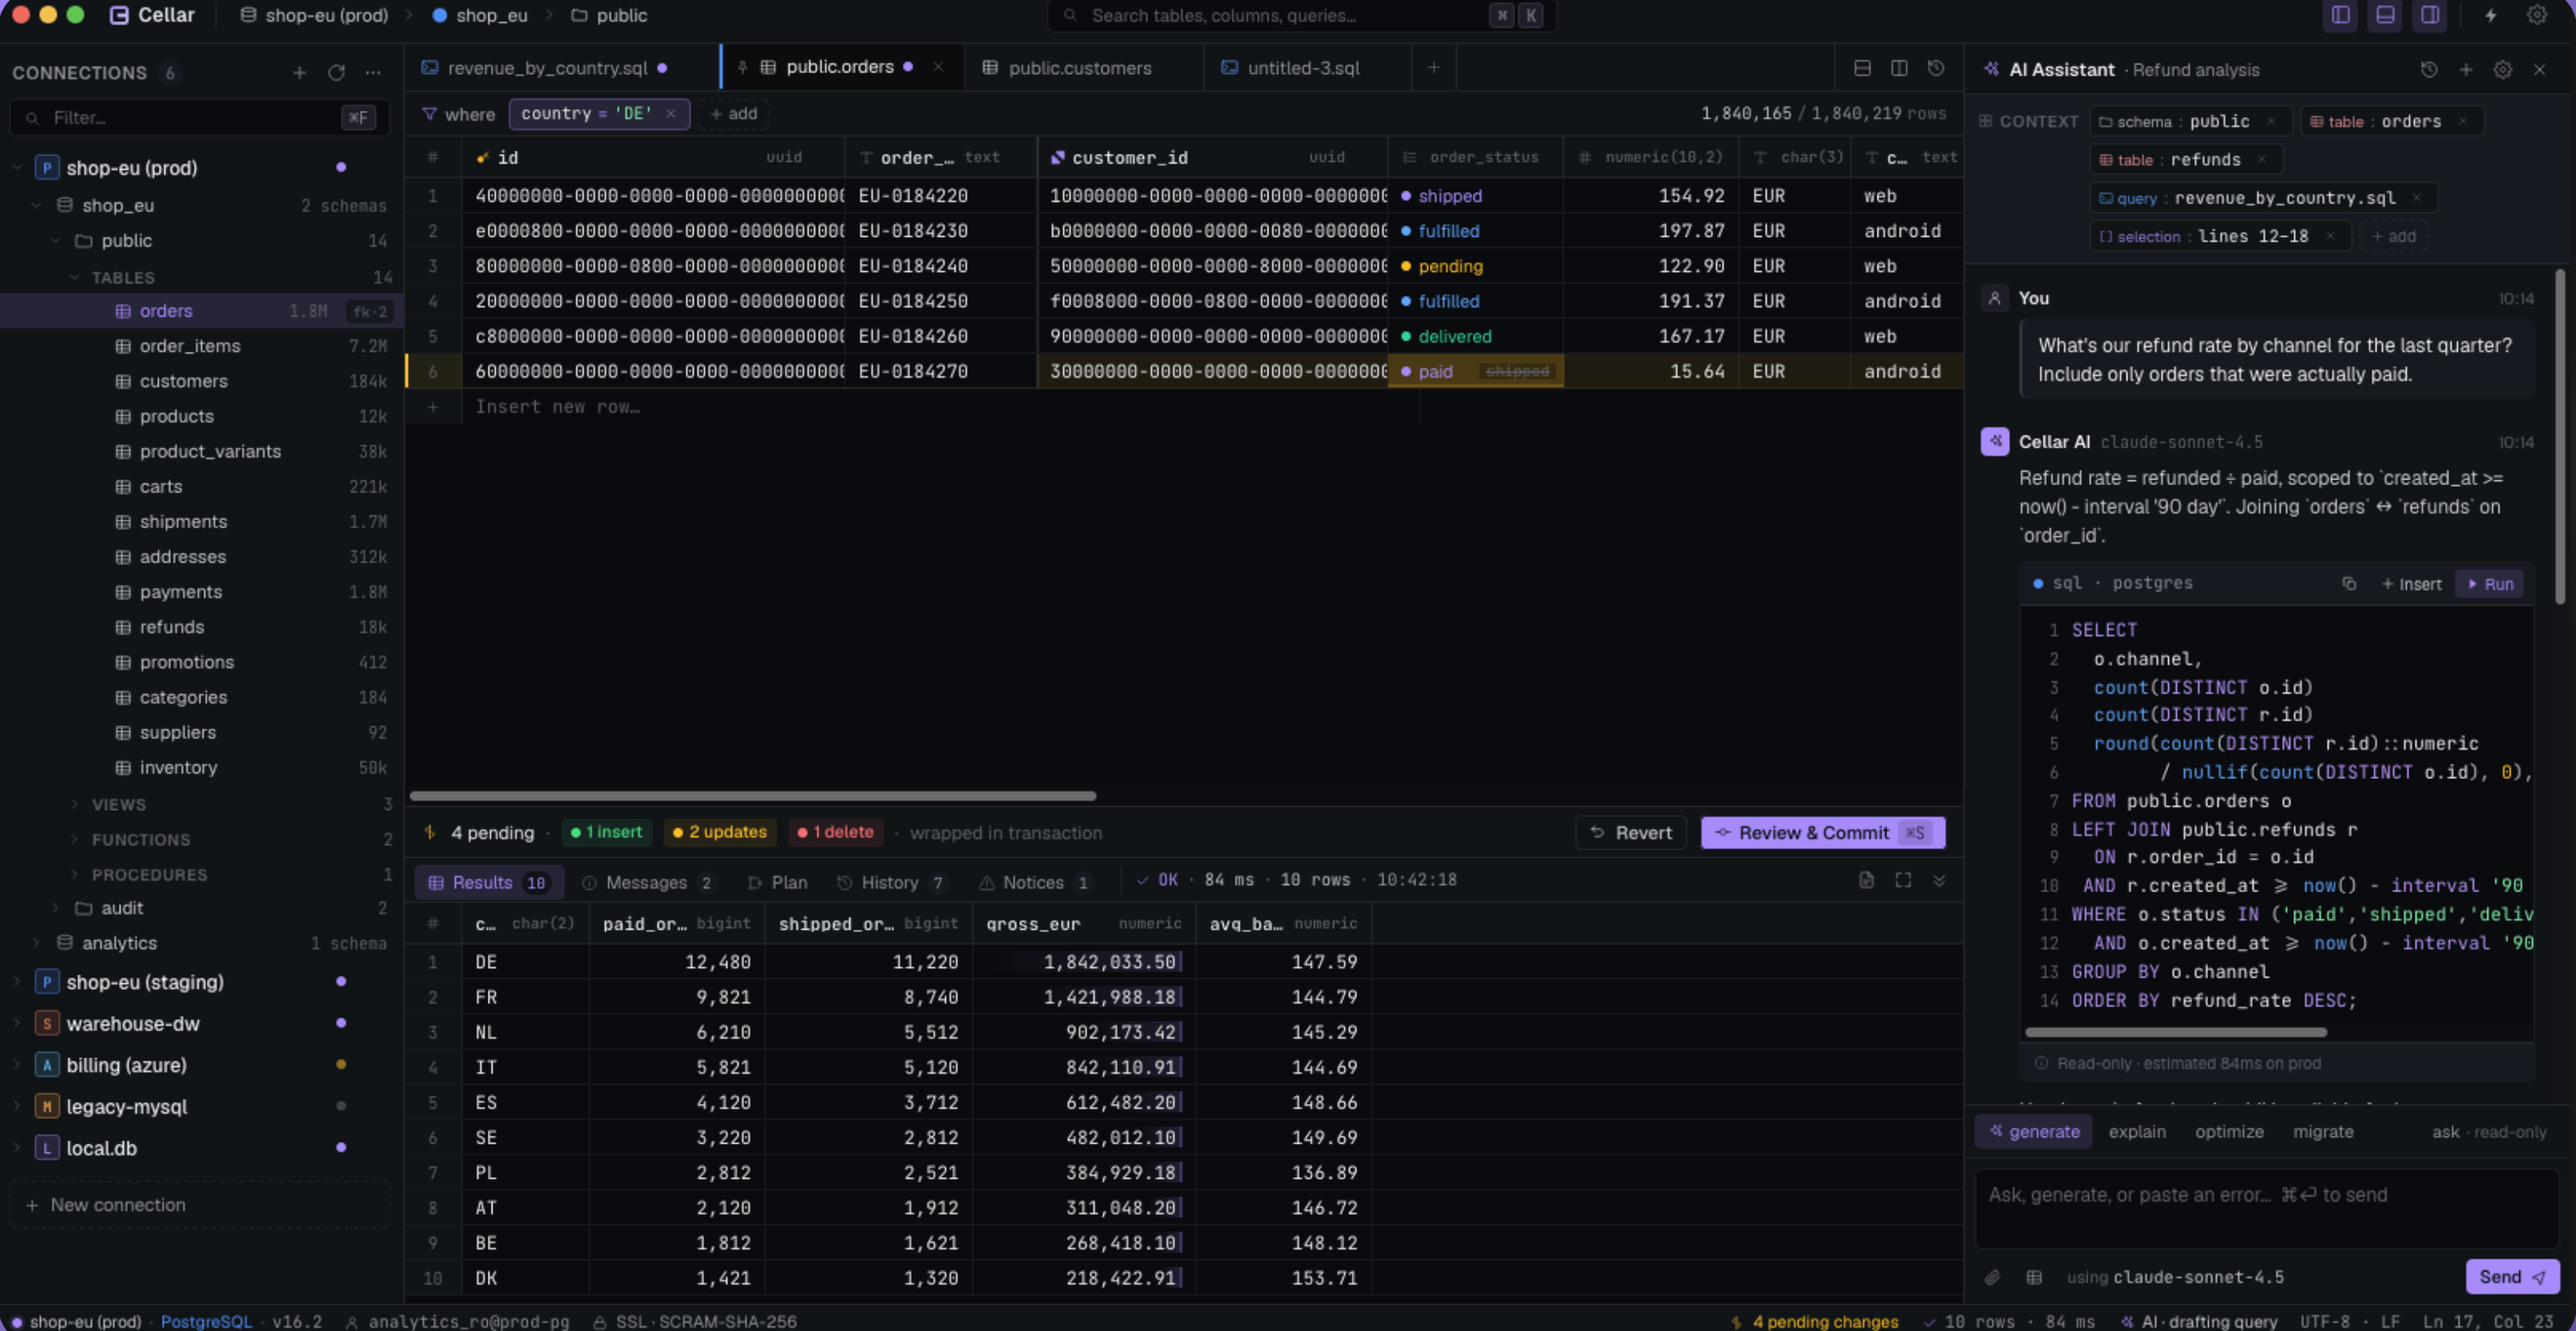
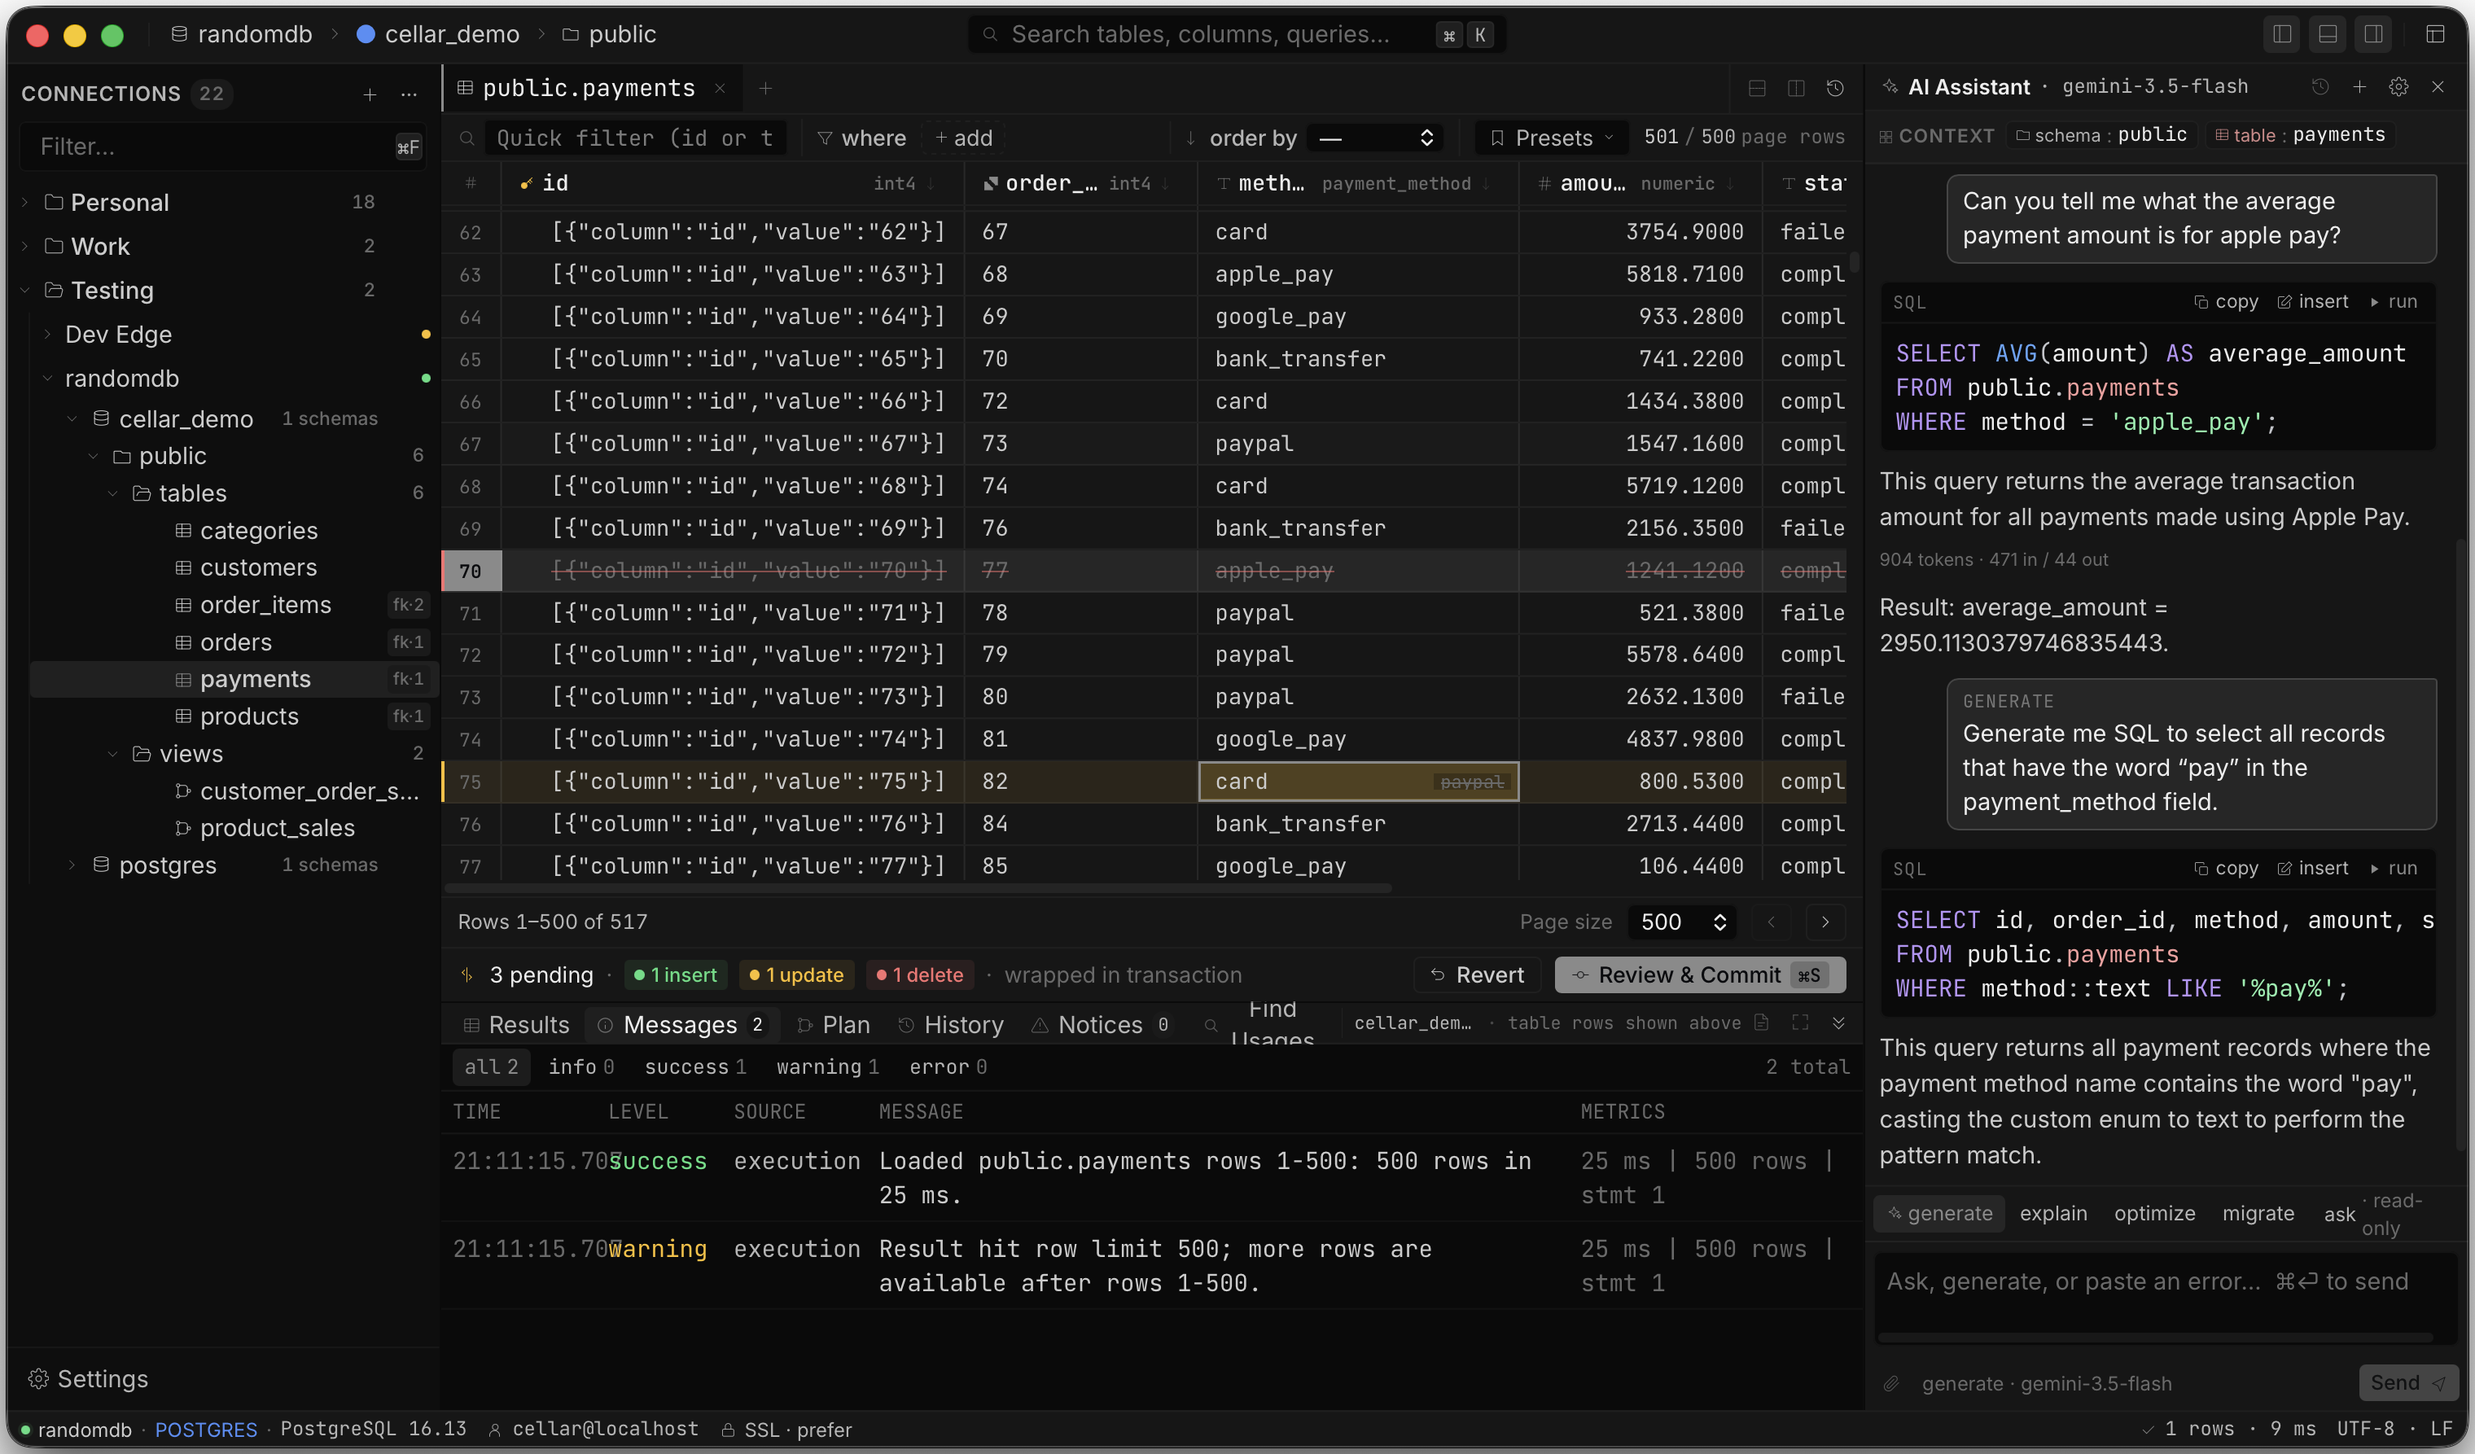
feat: refresh site screenshots

diff --git a/apps/site/index.html b/apps/site/index.html
@@ -17,8 +17,8 @@
   <meta property="og:type" content="website" />
   <!-- og:image must be an absolute URL or crawlers (X, Slack, …) silently drop it and fall back to a placeholder card -->
   <meta property="og:image" content="https://cellar.run/assets/cellar-main.png" />
-  <meta property="og:image:width" content="3164" />
-  <meta property="og:image:height" content="1635" />
+  <meta property="og:image:width" content="3040" />
+  <meta property="og:image:height" content="1786" />
   <meta property="og:image:alt" content="Cellar desktop database client, main window" />
   <meta name="twitter:card" content="summary_large_image" />
   <meta name="twitter:image" content="https://cellar.run/assets/cellar-main.png" />
@@ -47,15 +47,6 @@
 
   <link rel="preload" as="image" href="/assets/cellar-main.png" fetchpriority="high" />
 
-  <script>
-    /* Apply persisted theme before paint to avoid a flash. */
-    try {
-      var t = localStorage.getItem("cellar-theme");
-      if (t === "light" || t === "dark") {
-        document.documentElement.setAttribute("data-theme", t);
-      }
-    } catch (_) {}
-  </script>
 </head>
 <body>
 
@@ -77,10 +68,6 @@
       <a href="#faq">FAQ</a>
     </div>
     <div class="nav-right">
-      <button class="theme-btn" id="themeBtn" type="button" aria-label="Toggle color theme">
-        <svg class="sun" viewBox="0 0 24 24" fill="none" stroke="currentColor" stroke-width="1.8" stroke-linecap="round" aria-hidden="true"><circle cx="12" cy="12" r="4"/><path d="M12 2v2M12 20v2M4.9 4.9l1.4 1.4M17.7 17.7l1.4 1.4M2 12h2M20 12h2M4.9 19.1l1.4-1.4M17.7 6.3l1.4-1.4"/></svg>
-        <svg class="moon" viewBox="0 0 24 24" fill="none" stroke="currentColor" stroke-width="1.8" stroke-linecap="round" stroke-linejoin="round" aria-hidden="true"><path d="M21 12.8A9 9 0 1 1 11.2 3a7 7 0 0 0 9.8 9.8z"/></svg>
-      </button>
       <a class="ghost-link nav-desktop" href="https://github.com/MRL-00/cellar" rel="noopener">
         <svg width="16" height="16" viewBox="0 0 16 16" fill="currentColor" aria-hidden="true"><path d="M8 0C3.58 0 0 3.58 0 8c0 3.54 2.29 6.53 5.47 7.59.4.07.55-.17.55-.38 0-.19-.01-.82-.01-1.49-2.01.37-2.53-.49-2.69-.94-.09-.23-.48-.94-.82-1.13-.28-.15-.68-.52-.01-.53.63-.01 1.08.58 1.23.82.72 1.21 1.87.87 2.33.66.07-.52.28-.87.51-1.07-1.78-.2-3.64-.89-3.64-3.95 0-.87.31-1.59.82-2.15-.08-.2-.36-1.02.08-2.12 0 0 .67-.21 2.2.82.64-.18 1.32-.27 2-.27.68 0 1.36.09 2 .27 1.53-1.04 2.2-.82 2.2-.82.44 1.1.16 1.92.08 2.12.51.56.82 1.27.82 2.15 0 3.07-1.87 3.75-3.65 3.95.29.25.54.73.54 1.48 0 1.07-.01 1.93-.01 2.2 0 .21.15.46.55.38A8.01 8.01 0 0 0 16 8c0-4.42-3.58-8-8-8z"/></svg>
         <span>GitHub</span>
@@ -161,7 +148,7 @@
 
     <div class="shot-wrap">
       <div class="window">
-        <img src="/assets/cellar-main.png" alt="Cellar main window: table editing with the AI Assistant mid-conversation" width="1920" height="1080" fetchpriority="high" decoding="async" data-theme-swap />
+        <img src="/assets/cellar-main.png" alt="Cellar main window: table editing with the AI Assistant mid-conversation" width="3040" height="1786" fetchpriority="high" decoding="async" />
       </div>
     </div>
   </div>
@@ -211,8 +198,8 @@
           <h3 style="margin-top:14px;">Ask in English. Review the SQL.</h3>
           <p>Cellar's coming-soon AI is built around visible schema context, bring-your-own provider keys, and generated SQL you inspect before it runs — assistance inside the workflow, not a black box beside it.</p>
         </div>
-        <div class="cell-shot cover">
-          <img src="/assets/main.png" alt="Planned AI assistant drafting SQL with pinned schema context" width="924" height="540" loading="lazy" decoding="async" data-theme-swap />
+        <div class="cell-shot cover ai-shot">
+          <img src="/assets/main.png" alt="Planned AI assistant drafting SQL with pinned schema context" width="748" height="1664" loading="lazy" decoding="async" />
         </div>
       </article>
 
@@ -223,7 +210,7 @@
           <p>SSH tunnels and SSL/TLS built in. Credentials live in your OS keychain — never a config file, never synced.</p>
         </div>
         <div class="cell-shot cover">
-          <img src="/assets/connection.png" alt="New connection dialog with engine picker, host, auth and test connection" width="924" height="540" loading="lazy" decoding="async" data-theme-swap />
+          <img src="/assets/connection.png" alt="New connection dialog with engine picker, host, auth and test connection" width="924" height="540" loading="lazy" decoding="async" />
         </div>
       </article>
 
@@ -242,7 +229,7 @@
           <p>Tables, columns, commands, and workspace actions — one fuzzy search away.</p>
         </div>
         <div class="cell-shot cover">
-          <img src="/assets/cmd.png" alt="Command palette searching tables, actions and navigation" width="924" height="540" loading="lazy" decoding="async" data-theme-swap />
+          <img src="/assets/cmd.png" alt="Command palette searching tables, actions and navigation" width="3024" height="1770" loading="lazy" decoding="async" />
         </div>
       </article>
 

diff --git a/apps/site/src/main.ts b/apps/site/src/main.ts
@@ -1,91 +1,5 @@
 import "./styles.css";
 
-/* ───────────── theme toggle ───────────── */
-
-type Theme = "light" | "dark";
-
-const THEME_KEY = "cellar-theme";
-const root = document.documentElement;
-
-const saved = localStorage.getItem(THEME_KEY);
-if (saved === "light" || saved === "dark") {
-  root.setAttribute("data-theme", saved);
-}
-
-function currentTheme(): Theme {
-  return root.getAttribute("data-theme") === "light" ? "light" : "dark";
-}
-
-// ponytail: was a Set with exactly one subscriber; single callback suffices
-let onTheme: ((theme: Theme) => void) | null = null;
-
-function setTheme(next: Theme) {
-  root.setAttribute("data-theme", next);
-  localStorage.setItem(THEME_KEY, next);
-  onTheme?.(next);
-}
-
-const themeBtn = document.getElementById("themeBtn");
-themeBtn?.addEventListener("click", () => {
-  setTheme(currentTheme() === "dark" ? "light" : "dark");
-});
-
-/* ───────────── theme-aware screenshot swap ─────────────
-   When the site is in light mode, swap each product screenshot
-   to its light-theme variant. Light variants are looked up on
-   load and only enabled if the asset actually exists, so the
-   site stays correct until real light-theme screenshots ship.
-   Naming convention: foo.png ↔ foo-light.png. */
-
-type SwapEntry = { dark: string; light: string | null };
-const swappable = new Map<HTMLImageElement, SwapEntry>();
-
-function deriveLightPath(darkSrc: string): string {
-  return darkSrc.replace(/\.(png|jpg|jpeg|webp|avif)(\?.*)?$/i, "-light.$1$2");
-}
-
-/* Test that a URL actually resolves to a loadable image.
-   We can't just HEAD-probe: dev servers (and many static hosts)
-   return 200 + HTML for missing assets via SPA fallback, which
-   would fool the swap into pointing at a non-image response. */
-function probe(url: string): Promise<boolean> {
-  return new Promise((resolve) => {
-    const probeImg = new Image();
-    probeImg.onload = () => resolve(probeImg.naturalWidth > 0);
-    probeImg.onerror = () => resolve(false);
-    probeImg.src = url;
-  });
-}
-
-function applyImageTheme(theme: Theme) {
-  for (const [img, paths] of swappable) {
-    const target = theme === "light" && paths.light ? paths.light : paths.dark;
-    const current = img.getAttribute("src");
-    if (current !== target) img.setAttribute("src", target);
-  }
-}
-
-async function initImageSwap() {
-  const candidates = Array.from(
-    document.querySelectorAll<HTMLImageElement>("img[data-theme-swap]"),
-  );
-
-  await Promise.all(
-    candidates.map(async (img) => {
-      const dark = img.getAttribute("src");
-      if (!dark) return;
-      const lightPath = deriveLightPath(dark);
-      const exists = await probe(lightPath);
-      swappable.set(img, { dark, light: exists ? lightPath : null });
-    }),
-  );
-
-  applyImageTheme(currentTheme());
-  onTheme = applyImageTheme;
-}
-
-initImageSwap();
-
 /* ───────────── engine chips ───────────── */
 
 type Engine = { name: string; color: string; status: "supported" | "soon" };

diff --git a/apps/site/src/styles/nav.css b/apps/site/src/styles/nav.css
@@ -1,6 +1,6 @@
 /* ──────────────────────────────────────────────────────────────
    Navigation — scroll-aware sticky header, scroll-spy links,
-   mobile disclosure menu, theme toggle.
+   mobile disclosure menu.
    ────────────────────────────────────────────────────────────── */
 
 /* Transparent over the hero; solidifies on scroll (paint-only). */
@@ -103,21 +103,3 @@
   transition: color 0.13s ease;
 }
 .ghost-link:hover { color: var(--fg-0); }
-
-.theme-btn {
-  width: 36px;
-  height: 36px;
-  border-radius: 9px;
-  border: 1px solid var(--border-default);
-  background: transparent;
-  color: var(--fg-1);
-  cursor: pointer;
-  display: grid;
-  place-items: center;
-  transition: border-color 0.13s ease, color 0.13s ease, background 0.13s ease;
-}
-.theme-btn:hover { border-color: var(--border-strong); color: var(--fg-0); background: var(--bg-2); }
-.theme-btn svg { width: 16px; height: 16px; }
-.theme-btn .moon { display: none; }
-[data-theme="light"] .theme-btn .moon { display: block; }
-[data-theme="light"] .theme-btn .sun { display: none; }

diff --git a/apps/site/src/styles/content.css b/apps/site/src/styles/content.css
@@ -142,7 +142,9 @@ h2 {
 }
 .cell-shot img { width: 100%; display: block; }
 .cell.span2 .cell-shot { aspect-ratio: 21 / 9; }
+.cell.span2 .cell-shot.ai-shot { aspect-ratio: 4 / 3; }
 .cell-shot.cover img { aspect-ratio: 16 / 10; object-fit: cover; object-position: top center; height: 100%; }
+.cell-shot.ai-shot img { aspect-ratio: 4 / 3; object-position: top center; }
 
 /* text-only cells: big number + supporting line */
 .cell.metric { padding: 28px; display: flex; flex-direction: column; justify-content: space-between; min-height: 220px; }

diff --git a/apps/site/src/styles/responsive.css b/apps/site/src/styles/responsive.css
@@ -17,6 +17,7 @@
   .bento { grid-template-columns: 1fr; }
   .cell.span2 { grid-column: span 1; }
   .cell.span2 .cell-shot { aspect-ratio: 16 / 9; }
+  .cell.span2 .cell-shot.ai-shot { aspect-ratio: 4 / 3; }
   .band { grid-template-columns: 1fr; gap: 32px; padding: 36px; }
   .kb-grid { grid-template-columns: 1fr; }
   .foot-grid { grid-template-columns: 1fr 1fr; }

diff --git a/apps/site/src/styles/hero.css b/apps/site/src/styles/hero.css
@@ -143,7 +143,7 @@ h1 .accent {
   overflow: hidden;
   background: var(--bg-1);
   box-shadow: var(--shadow-lg);
-  aspect-ratio: 16 / 9;
+  aspect-ratio: 3040 / 1786;
 }
 .window img {
   width: 100%;
